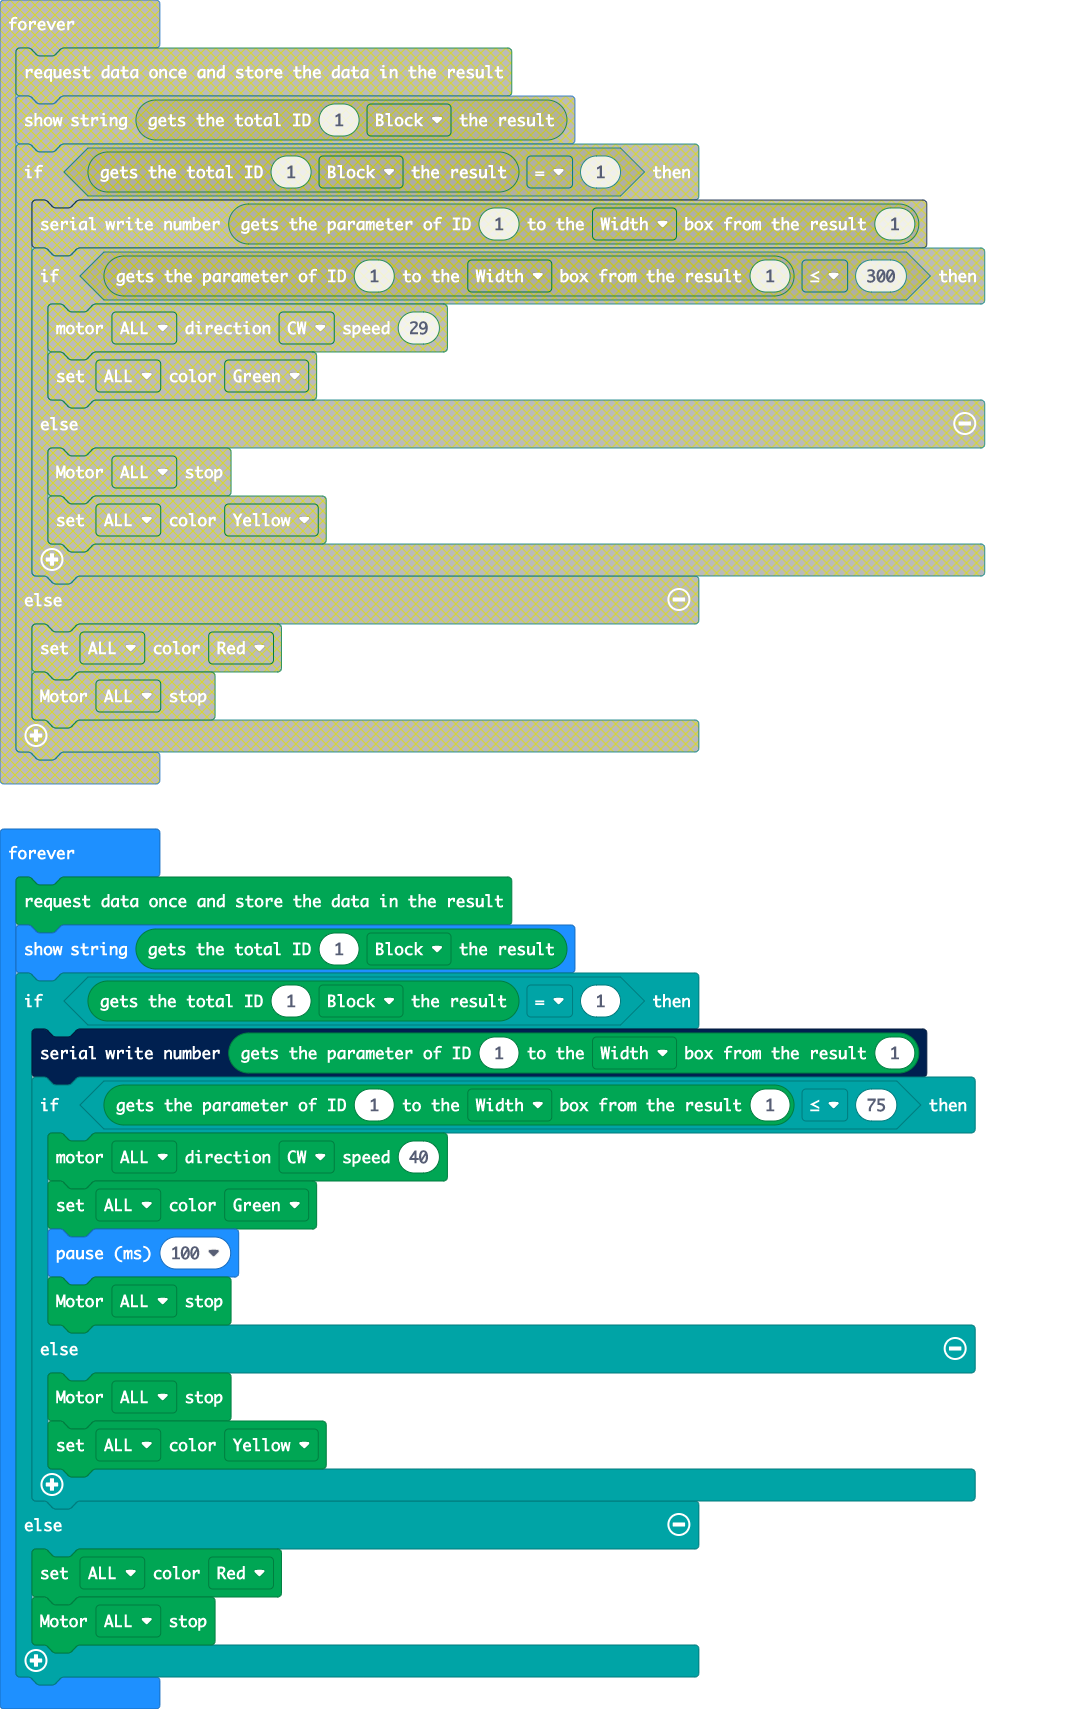
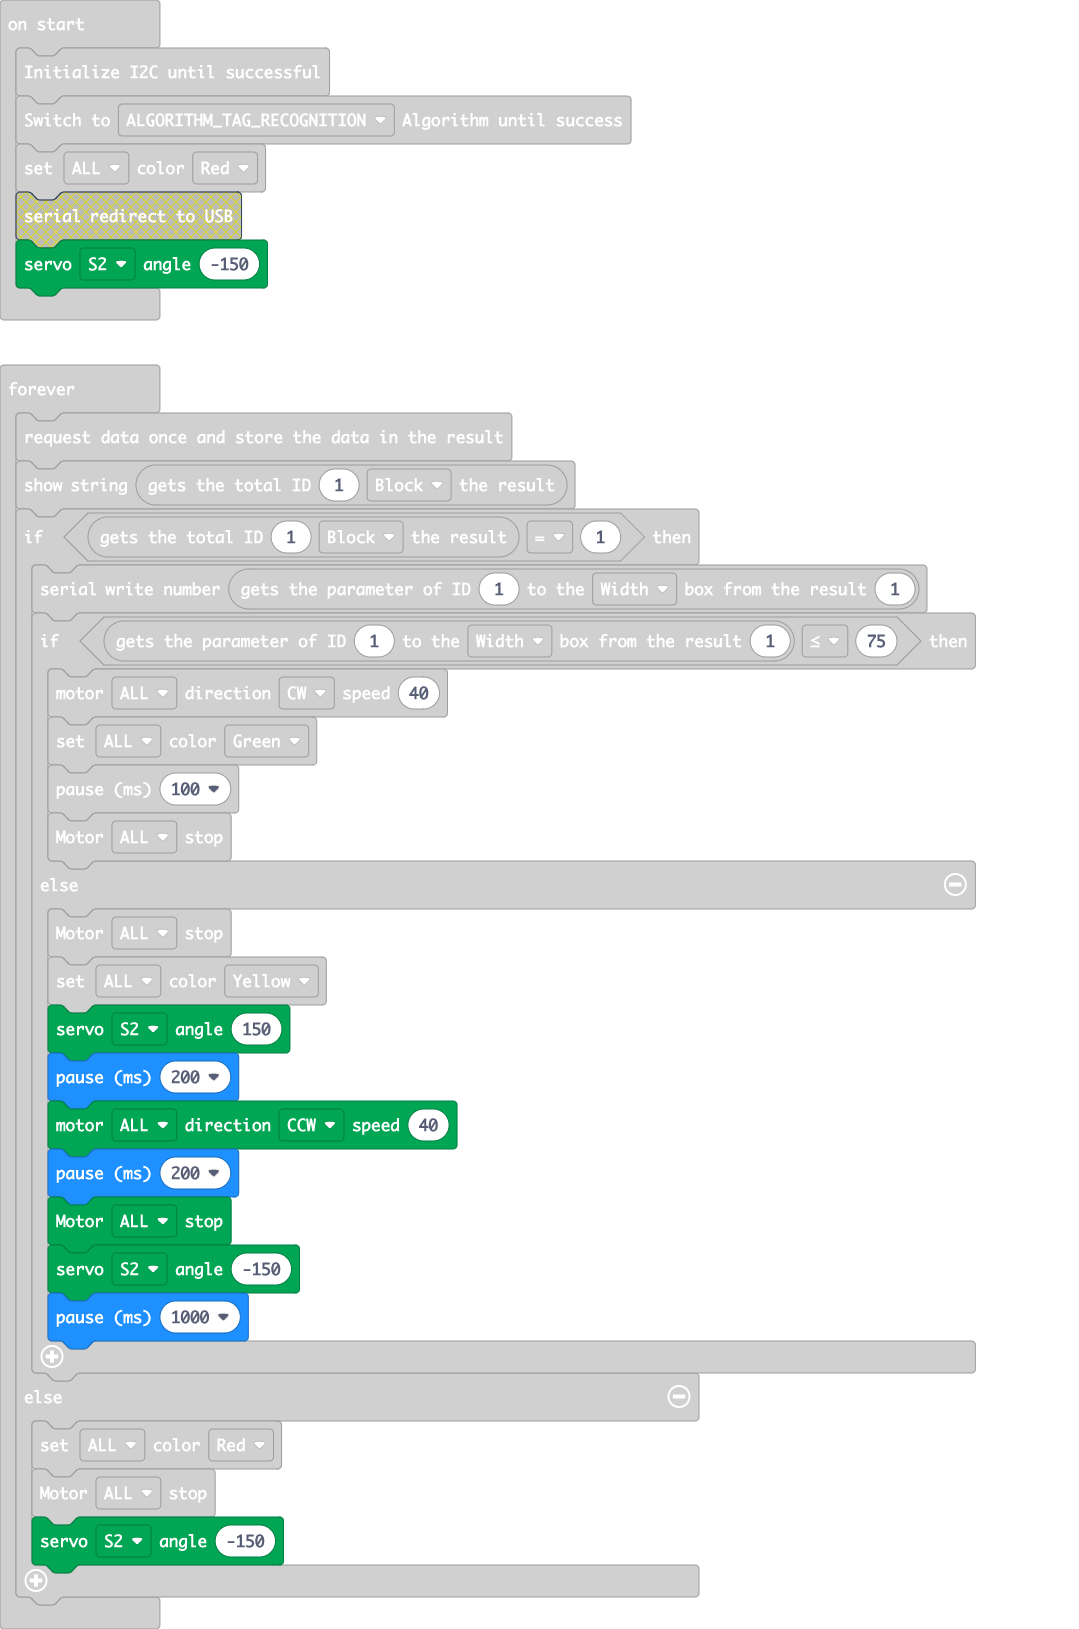
Update main.blocks, main.ts

diff --git a/main.ts b/main.ts
@@ -1,7 +1,7 @@
 huskylens.initI2c()
 huskylens.initMode(protocolAlgorithm.ALGORITHM_TAG_RECOGNITION)
 DFRobotMaqueenPluss.setRGBLight(RGBLight.RGBA, Color.RED)
-serial.redirectToUSB()
+DFRobotMaqueenPluss.servoRun(Servos.S2, -150)
 basic.forever(function () {
     huskylens.request()
     basic.showString("" + (huskylens.getBox_S(1, HUSKYLENSResultType_t.HUSKYLENSResultBlock)))
@@ -15,9 +15,17 @@ basic.forever(function () {
         } else {
             DFRobotMaqueenPluss.mototStop(Motors.ALL)
             DFRobotMaqueenPluss.setRGBLight(RGBLight.RGBA, Color.YELLOW)
+            DFRobotMaqueenPluss.servoRun(Servos.S2, 150)
+            basic.pause(200)
+            DFRobotMaqueenPluss.mototRun(Motors.ALL, Dir.CCW, 40)
+            basic.pause(200)
+            DFRobotMaqueenPluss.mototStop(Motors.ALL)
+            DFRobotMaqueenPluss.servoRun(Servos.S2, -150)
+            basic.pause(1000)
         }
     } else {
         DFRobotMaqueenPluss.setRGBLight(RGBLight.RGBA, Color.RED)
         DFRobotMaqueenPluss.mototStop(Motors.ALL)
+        DFRobotMaqueenPluss.servoRun(Servos.S2, -150)
     }
 })
